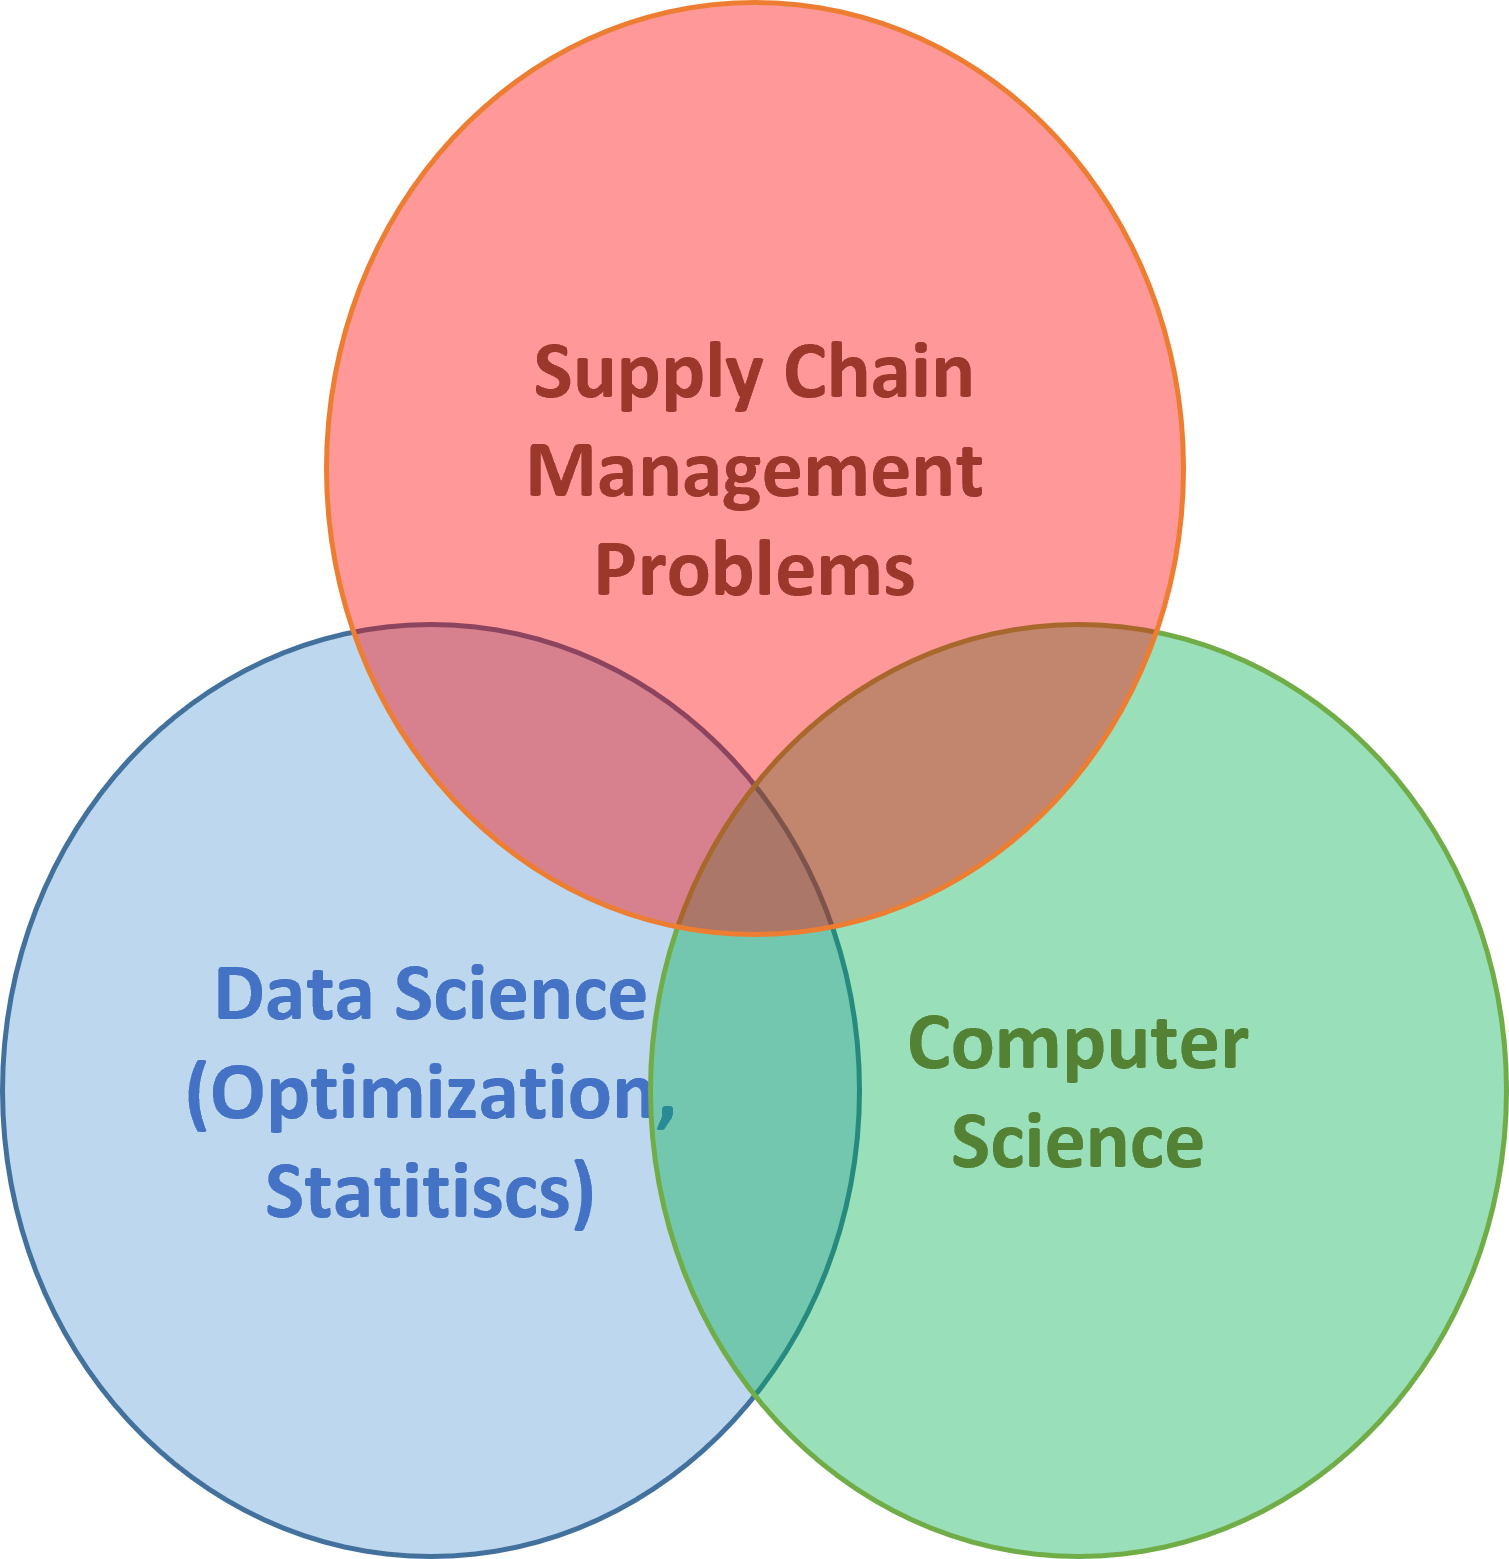
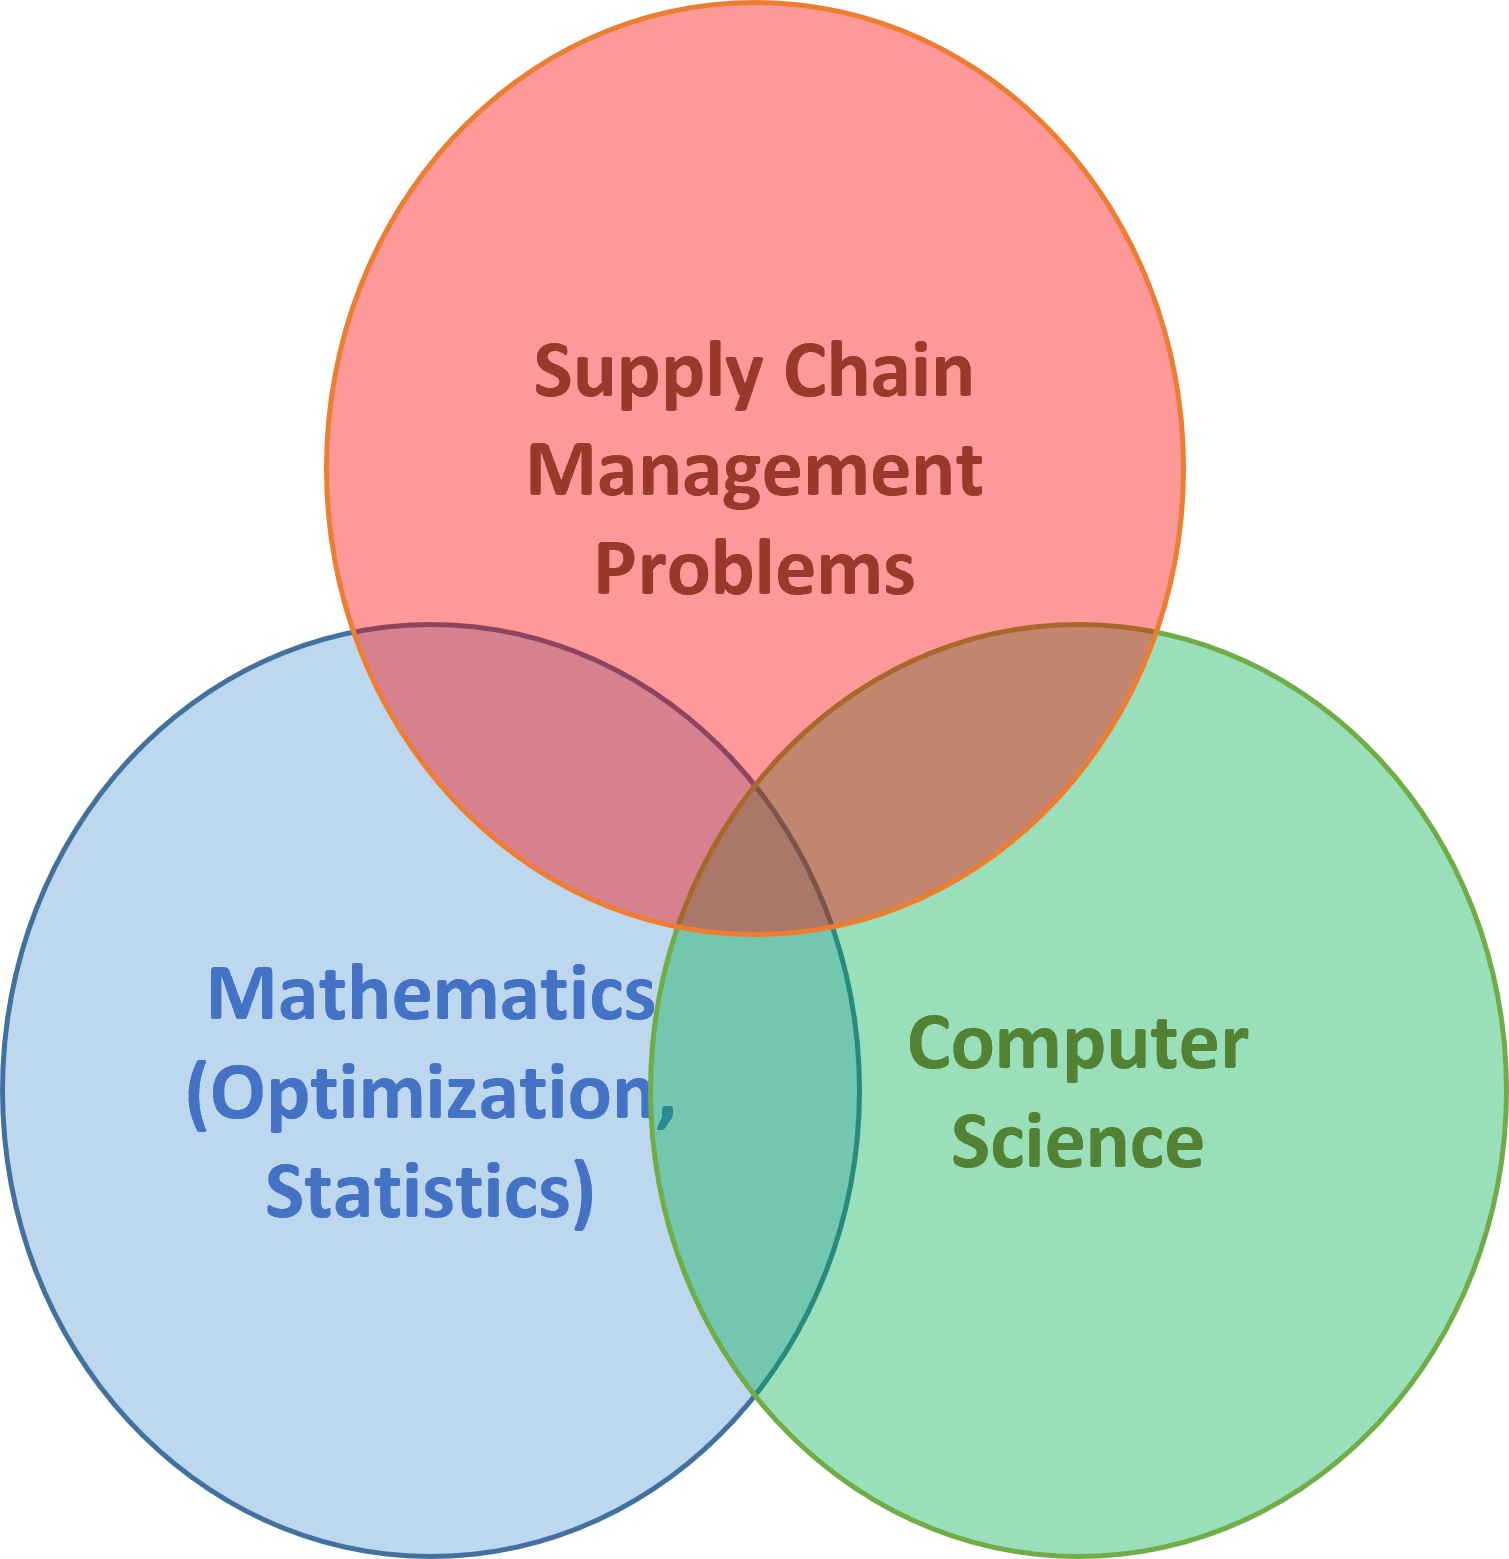
- Updated OR in a nutshell and intro

Changed region(s): [[0.1246, 0.6158, 0.4361, 0.6774], [0.2803, 0.7389, 0.3426, 0.8005]]

diff --git a/docs/source/Introduction/index.rst b/docs/source/Introduction/index.rst
@@ -10,15 +10,21 @@ The main objective of operations research is to support decision making through 
 Formally, making a decision is the process of selecting the best alternative between a set of alternative options. Depending on the problem, there can be a finite set or an infinite set of alternative options.
 The connection between Operations Research and management is clear: Managers make decisions and in extension, decision making is strongly connected to management. From this perspective, Operations Research gathers a set of tools that identify the best (optimal) alternative in a systematic way, based on a set of assumptions that allows us to model the decision making process using the mathematical language.
 
-In a nutshell, the objective of OR is to find optimal solutions to **management problems** in the domain of **supply chain operations**, using **mathematical methods** and implement these methods using **computer science** (algorithms), as illustrated in the figure below.
+In a nutshell, the objective of OR is to find optimal solutions to **management problems**, optimizing the performance of **complex systems**.
+In practice, the optimization is achieved using **mathematical methods** and these methods are implemented using computers and **computer science**.
+Although operations research can be applied to different domains, this book is focused on **supply chain management**. As illustrated in the figure below, in this book, supply chain management, applied mathematics, and computer science overlap and interact in a number of ways.
 
 .. image:: img/OR_in_a_nutshell.png
     :width: 350px
-    :alt: OR in a nutshell: A combination of data science, computer science and supply chain management
+    :alt: OR in a nutshell: A combination of applied mathematics, computer science and supply chain management
 
-To provide a clear framework for the book, the scope of the problems that will be addressed relate to specific **management levels**, and **business processes**.
+Supply chain management is the process of coordinating the flow of goods, services, and information from suppliers, through production and distribution, to customers. It involves managing the relationships between different parties in the supply chain, as well as coordinating the activities and resources needed to move goods and services from one place to another. Some of the key activities involved in supply chain management include sourcing raw materials and components, manufacturing and assembling products, warehousing and storing finished goods, and transportation and distribution. The goal of supply chain management is to ensure that goods and services are produced and delivered efficiently and effectively, while minimizing costs and risks. Operations research and computer science can both play important roles in the design and optimization of supply chain systems.
 
-Management Framework
+Supply chain models provide a framework for understanding and analyzing the various components and processes involved in the supply chain, and operations research techniques (a branch of applied mathematics) can be used to design and analyze algorithms for optimizing the performance of these systems. Once the algorithms have been designed and tested, computer science can be used to implement the solution, either by building a custom software application or by using a pre-existing tool or platform.
+
+The next section describes the management framework used in the book, consisted of **management levels**, and **business processes** modelling supply chain management.
+
+Management Framework: Supply chain models
 ^^^^^^^^^^^^^^^^^^^^^
 Business processes
 ^^^^^^^^^^^^^^^^^^
@@ -63,13 +69,13 @@ Operations Research provides tools to support decision making in any of the thre
 
 Operations Research and Artificial Intelligence
 ________________________________________________
-Operations Research is strongly connected to Artificial Intelligence (AI). The `European Union <https://ec.europa.eu/digital-single-market/en/news/definition-artificial-intelligence-main-capabilities-and-scientific-disciplines>`_ defines AI as:
+Operations Research is strongly connected to Artificial Intelligence (AI). The `European Union <https://ec.europa.eu/futurium/en/system/files/ged/ai_hleg_definition_of_ai_18_december_1.pdf>`_ defines AI as:
     \"Artificial intelligence (AI) refers to systems that display intelligent behaviour by analysing their environment and taking actions - with some degree of autonomy - to achieve specific goals\"
 
-Therefore, AI systems sense their environment and take optimal decisions to achieve specific goals. Clearly, from this definition, AI and OR are strongly related. Both disciplines make use of the same mathematical tools, primarily in the field of optimisation, to find the best course of action. However, particularly in this course, OR is focused on business management problems, while AI refers to any system that exhibits rationality (defined as the capability to perceive the environment and determine a course of action based on processed information).
-OR is therefore a field of application of AI. From this perspective, this course describes the main mathematical techniques that support decision making and thus, it provides a good introduction to the field of AI, guided through business management problems.
+Therefore, AI systems sense their environment and take optimal decisions to achieve specific goals. Clearly, from this definition, AI and OR are also interlinked and can be used together to solve complex optimization problems.
+Fundamentally, both disciplines make use of mathematics, primarily in the field of optimisation, to find the best course of action. For this reason, and given the importance and impact of AI in solving decisional problems, this book will also cover some of the basics of modern artificial intelligence.
 
-Moreover, as described in the same document referenced above, broadly speaking, all such techniques can be grouped in two main groups, related to the capabilities of **reasoning** and **learning**.
+Moreover, as described in the same document referenced above, broadly speaking, all such artificial intelligence techniques can be grouped in two main groups, related to the capabilities of **reasoning** and **learning**.
 
 .. image:: img/AI_and_OR.png
     :alt: AI techniques can be grouped into reasoning and machine learning
@@ -77,7 +83,9 @@ Moreover, as described in the same document referenced above, broadly speaking, 
 - **Reasoning**: These techniques allow an AI system to take as input the data coming from different sources and propose an action to take, given the goal to achieve.
 - **Machine learning**: These techniques allow an AI system to learn how to solve problems that cannot be precisely specified, or whose solution method cannot be described by symbolic reasoning rules.
 
-Let us emphasize again that this course in OR is mainly focused on reasoning techniques, techniques that allow us to find the best decision from a set of alternative options. The course will discuss extensively **optimisation** which is an entire field of mathematics dedicated to finding the **optimal** (normally the minimum or the maximum) solution among all **feasible** solutions. Due to the importance of these definitions, they are formally defined in a section below. The course will also cover **searching problems** and **Combinatorial Optimization**, which is the sub-field of optimisation dedicated to finding an optimal solution from a finite set of solutions.
+Operations research techniques, such as mathematical modeling and optimization algorithms, can be used to represent and solve reasoning problems in a way that is amenable to automation and solution by an AI system. In turn, machine learning  can be used to improve the performance and efficiency of operations research models and algorithms. For example, an AI system might be used to analyze large amounts of data and identify patterns and relationships that are not immediately apparent to humans. This analysis can then be used to inform the development of more accurate and effective operations research models, which can be used to optimize the performance of a system. Similarly, an AI system might be used to automate the solution of operations research models, allowing for faster and more accurate decision making. Overall, the combination of AI and operations research can be a powerful tool for solving complex optimization problems in a wide range of fields.
+
+Let us emphasize again that this book in OR is mainly focused on reasoning techniques, and not so on learning techniques (although it will cover the basics). Reasoning techniques will allow us to find the best decision from a set of alternative options. The course will discuss extensively **optimisation** which is an entire field of mathematics dedicated to finding the **optimal** (normally the minimum or the maximum) solution among all **feasible** solutions. Due to the importance of these definitions, they are formally defined in a section below. The course will also cover **searching problems** and **Combinatorial Optimization**, which is the sub-field of optimisation dedicated to finding an optimal solution from a finite set of solutions.
 The course will describe how complex problems in OR, like **planning** (eg finding the optimal allocation or resources to accomplish a specific objective) or **scheduling** (find the optimal order of activities that minimise the execution of an activity plan, given a limited set of resources), can be modeled and solved using advanced analytic techniques.
 
 Although it is not a fundamental part of this course, the course will also describe how machine learning is strongly related to the same techniques and will discuss specific applications of machine learning in OR.
